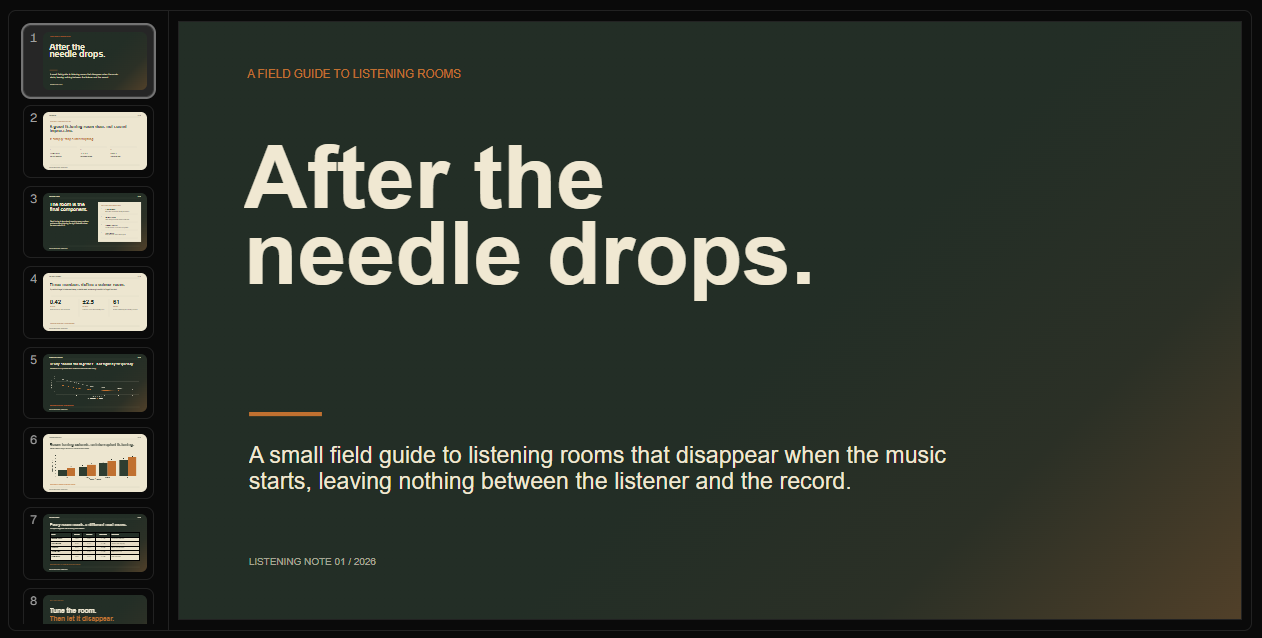
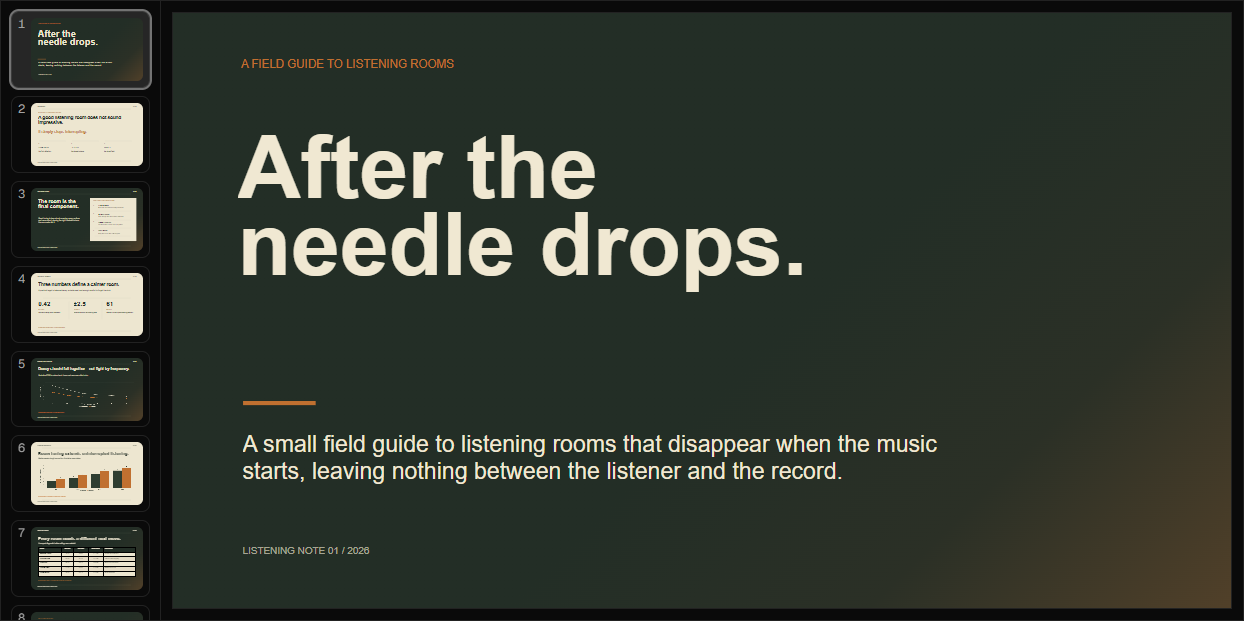
feat: update screenshot

diff --git a/apps/docs/src/components/presentation-editing-demo.tsx b/apps/docs/src/components/presentation-editing-demo.tsx
@@ -74,7 +74,7 @@ export function PresentationEditingDemo() {
   return (
     <div className="not-prose flex h-100 flex-col overflow-hidden rounded-lg border">
       <PresentationProvider store={store}>
-        <Toolbar />
+        <PresentationToolbar />
         <Presentation className="min-h-0 flex-1">
           <SortableThumbnailList store={store} />
           <PresentationContent>
@@ -92,9 +92,13 @@ export function PresentationEditingDemo() {
   );
 }
 
-function Toolbar() {
+function PresentationToolbar() {
   const { status } = usePresentation();
   const { canUndo, canRedo, undo, redo } = useHistory();
+
+  function run(action: () => Promise<unknown>) {
+    void action().catch((error) => console.error("[demo] action failed:", error));
+  }
 
   return (
     <div className="flex items-center gap-2 border-b px-3 py-2">
@@ -107,12 +111,12 @@ function Toolbar() {
         <TooltipTrigger
           render={
             <Button
-              size="icon-sm"
-              variant="ghost"
-              className="ml-auto"
               aria-label="Undo"
-              focusableWhenDisabled
+              variant="ghost"
+              size="icon-sm"
+              className="ml-auto"
               disabled={!canUndo}
+              focusableWhenDisabled
               onClick={() => undo()}
             >
               <Undo2Icon />
@@ -125,14 +129,12 @@ function Toolbar() {
         <TooltipTrigger
           render={
             <Button
-              size="icon-sm"
-              variant="ghost"
               aria-label="Redo"
-              focusableWhenDisabled
+              variant="ghost"
+              size="icon-sm"
               disabled={!canRedo}
-              onClick={() =>
-                void redo().catch((error) => console.error("[demo] redo failed:", error))
-              }
+              focusableWhenDisabled
+              onClick={() => run(() => redo())}
             >
               <Redo2Icon />
             </Button>

diff --git a/apps/docs/src/components/presentation-playground.tsx b/apps/docs/src/components/presentation-playground.tsx
@@ -108,7 +108,7 @@ export function PresentationPlayground({ searchParams }: PresentationPlaygroundP
         className={cn(
           "flex flex-col overflow-hidden rounded-md border",
           hidden.has("file-input")
-            ? "h-[calc(100dvh-(--spacing(82)))]"
+            ? "h-[calc(100dvh-(--spacing(22)))]"
             : "h-[calc(100dvh-(--spacing(32)))]",
         )}
       >
@@ -221,7 +221,7 @@ function SortableThumbnailList({ store }: SortableThumbnailListProps) {
       onDragEnd={onDragEnd}
     >
       <SortableContext items={orderedIds} strategy={verticalListSortingStrategy}>
-        <PresentationThumbnailList className="p-2">
+        <PresentationThumbnailList className="overflow-clip p-2.5">
           {() => (
             <>
               {orderedIds.map((slideId) => (

diff --git a/README.md b/README.md
@@ -2,7 +2,7 @@
 
 Composable primitives for viewing and editing PowerPoint presentations in the browser. Unstyled, accessible, and entirely yours to build on.
 
-![layout](./apps/docs/public/layout.png)
+![Layout](./apps/docs/public/layout.png)
 
 ## Documentation
 
